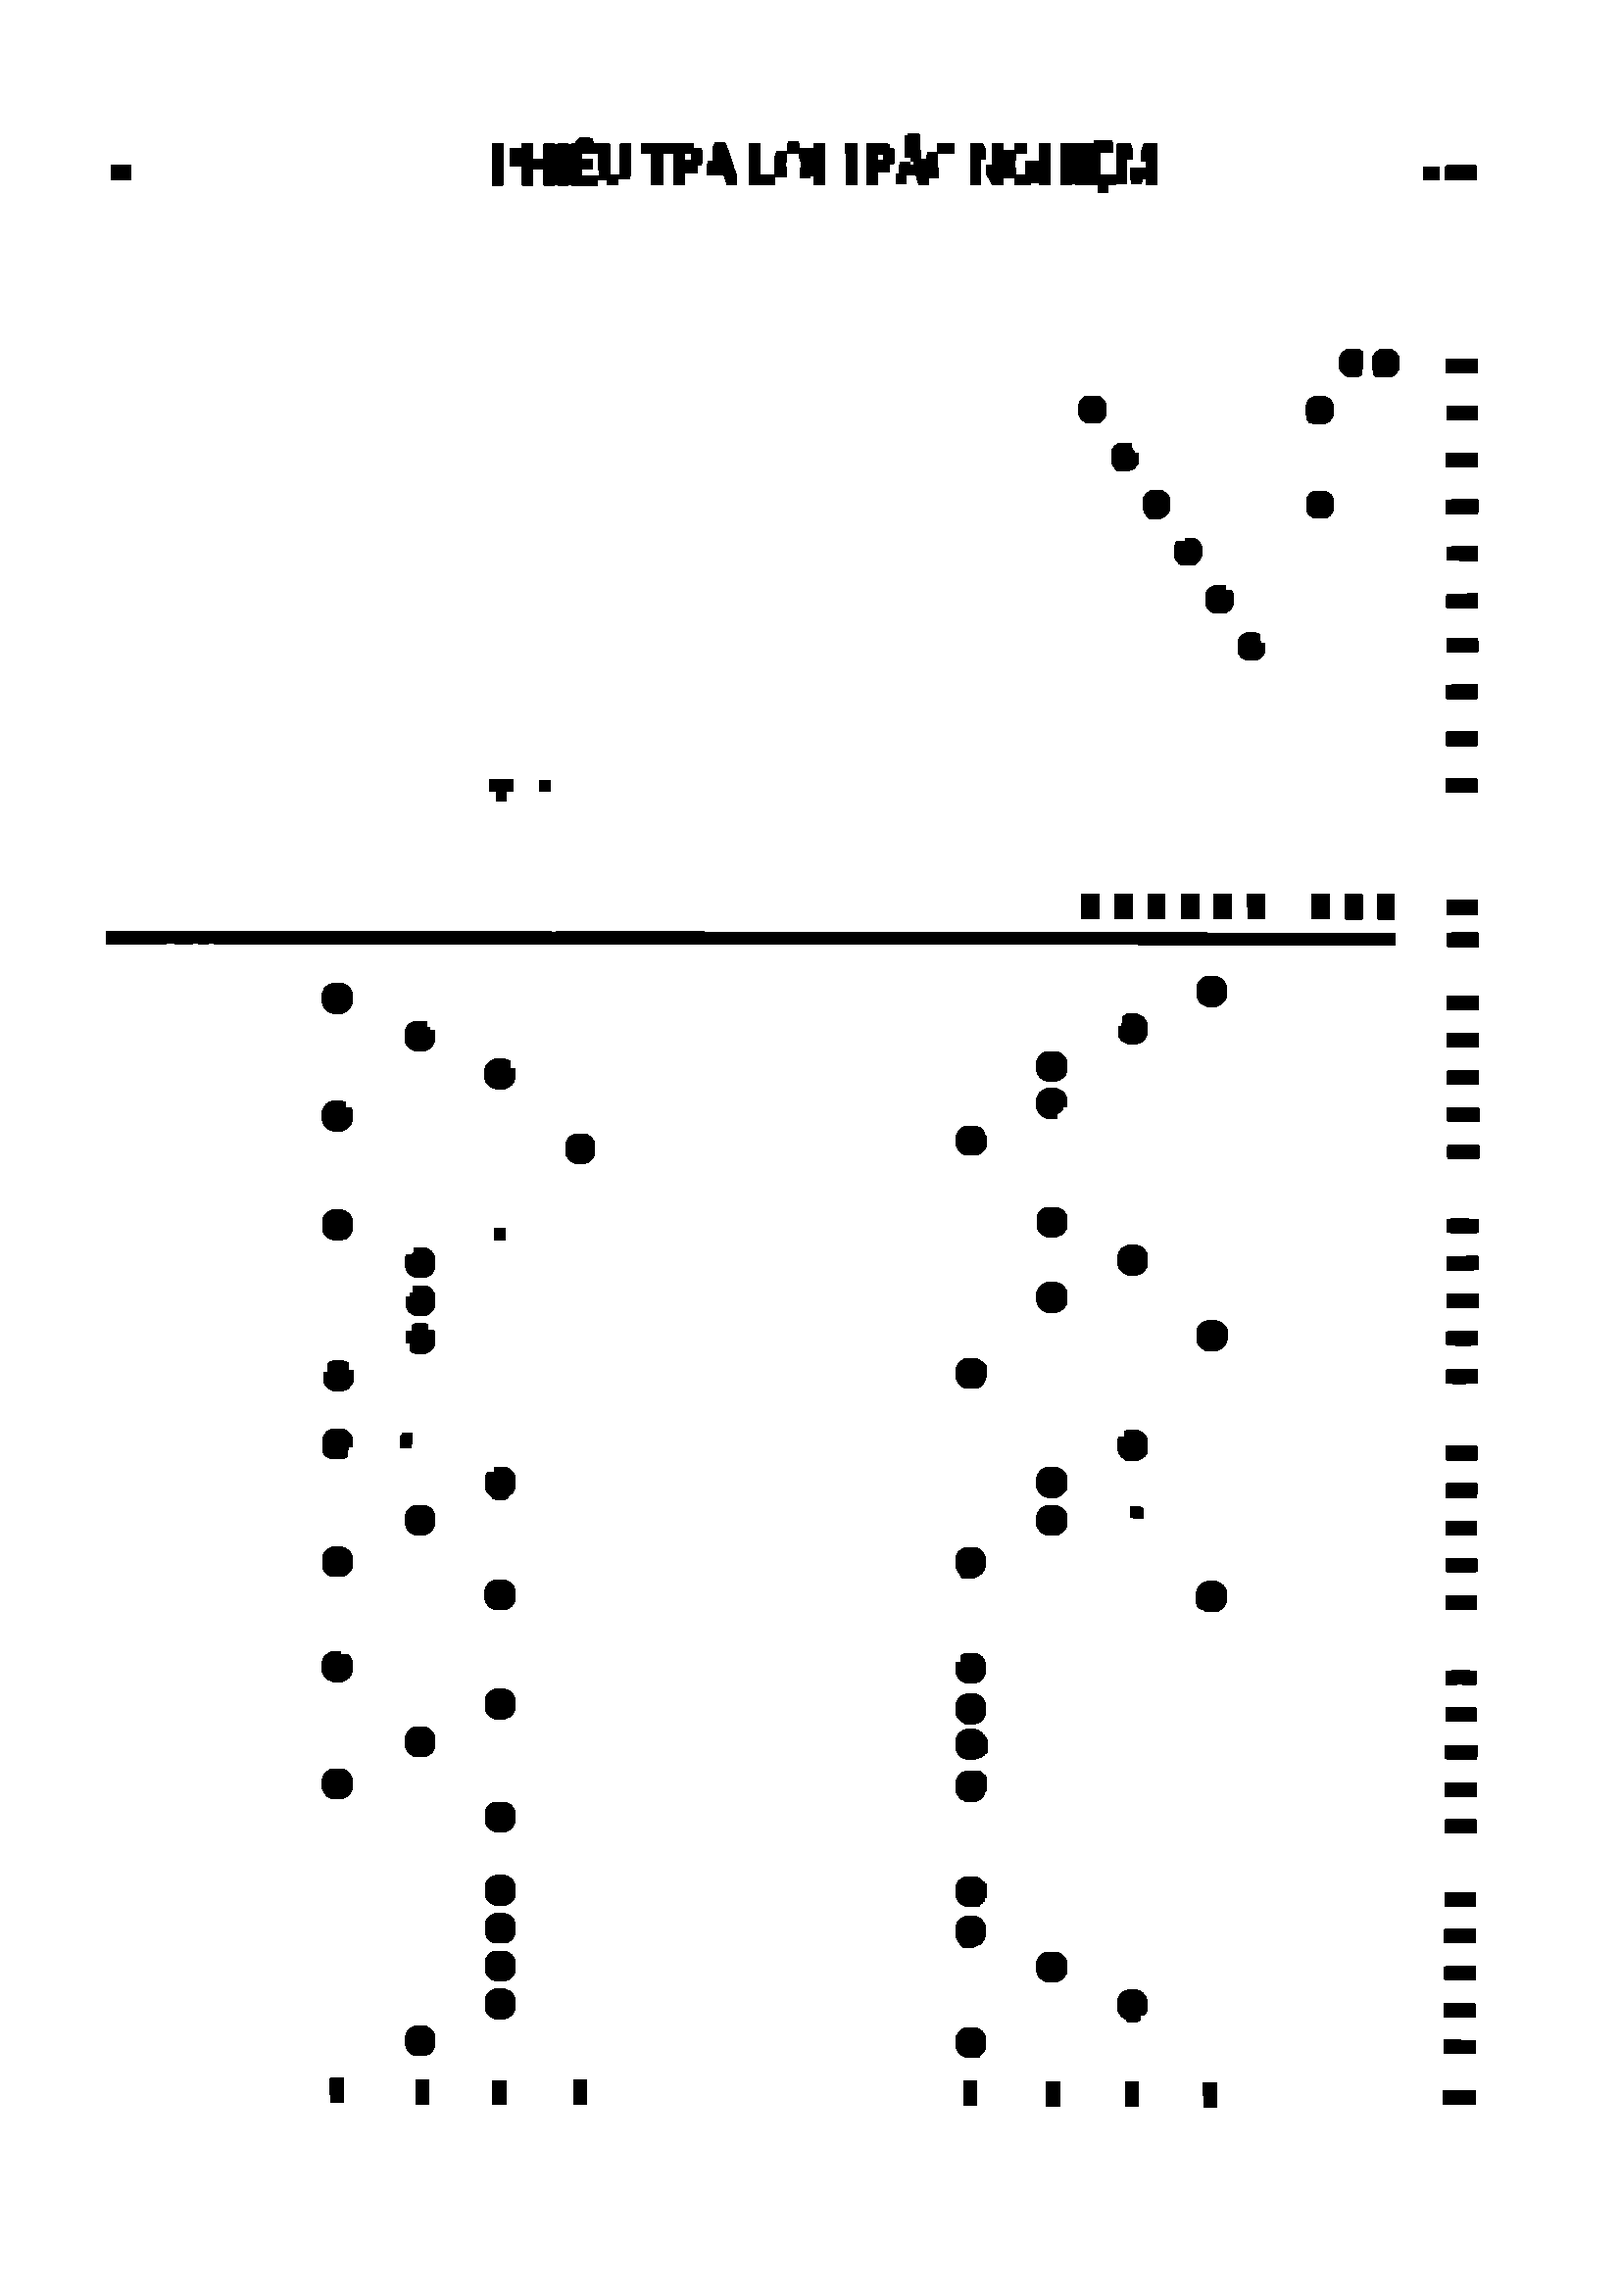
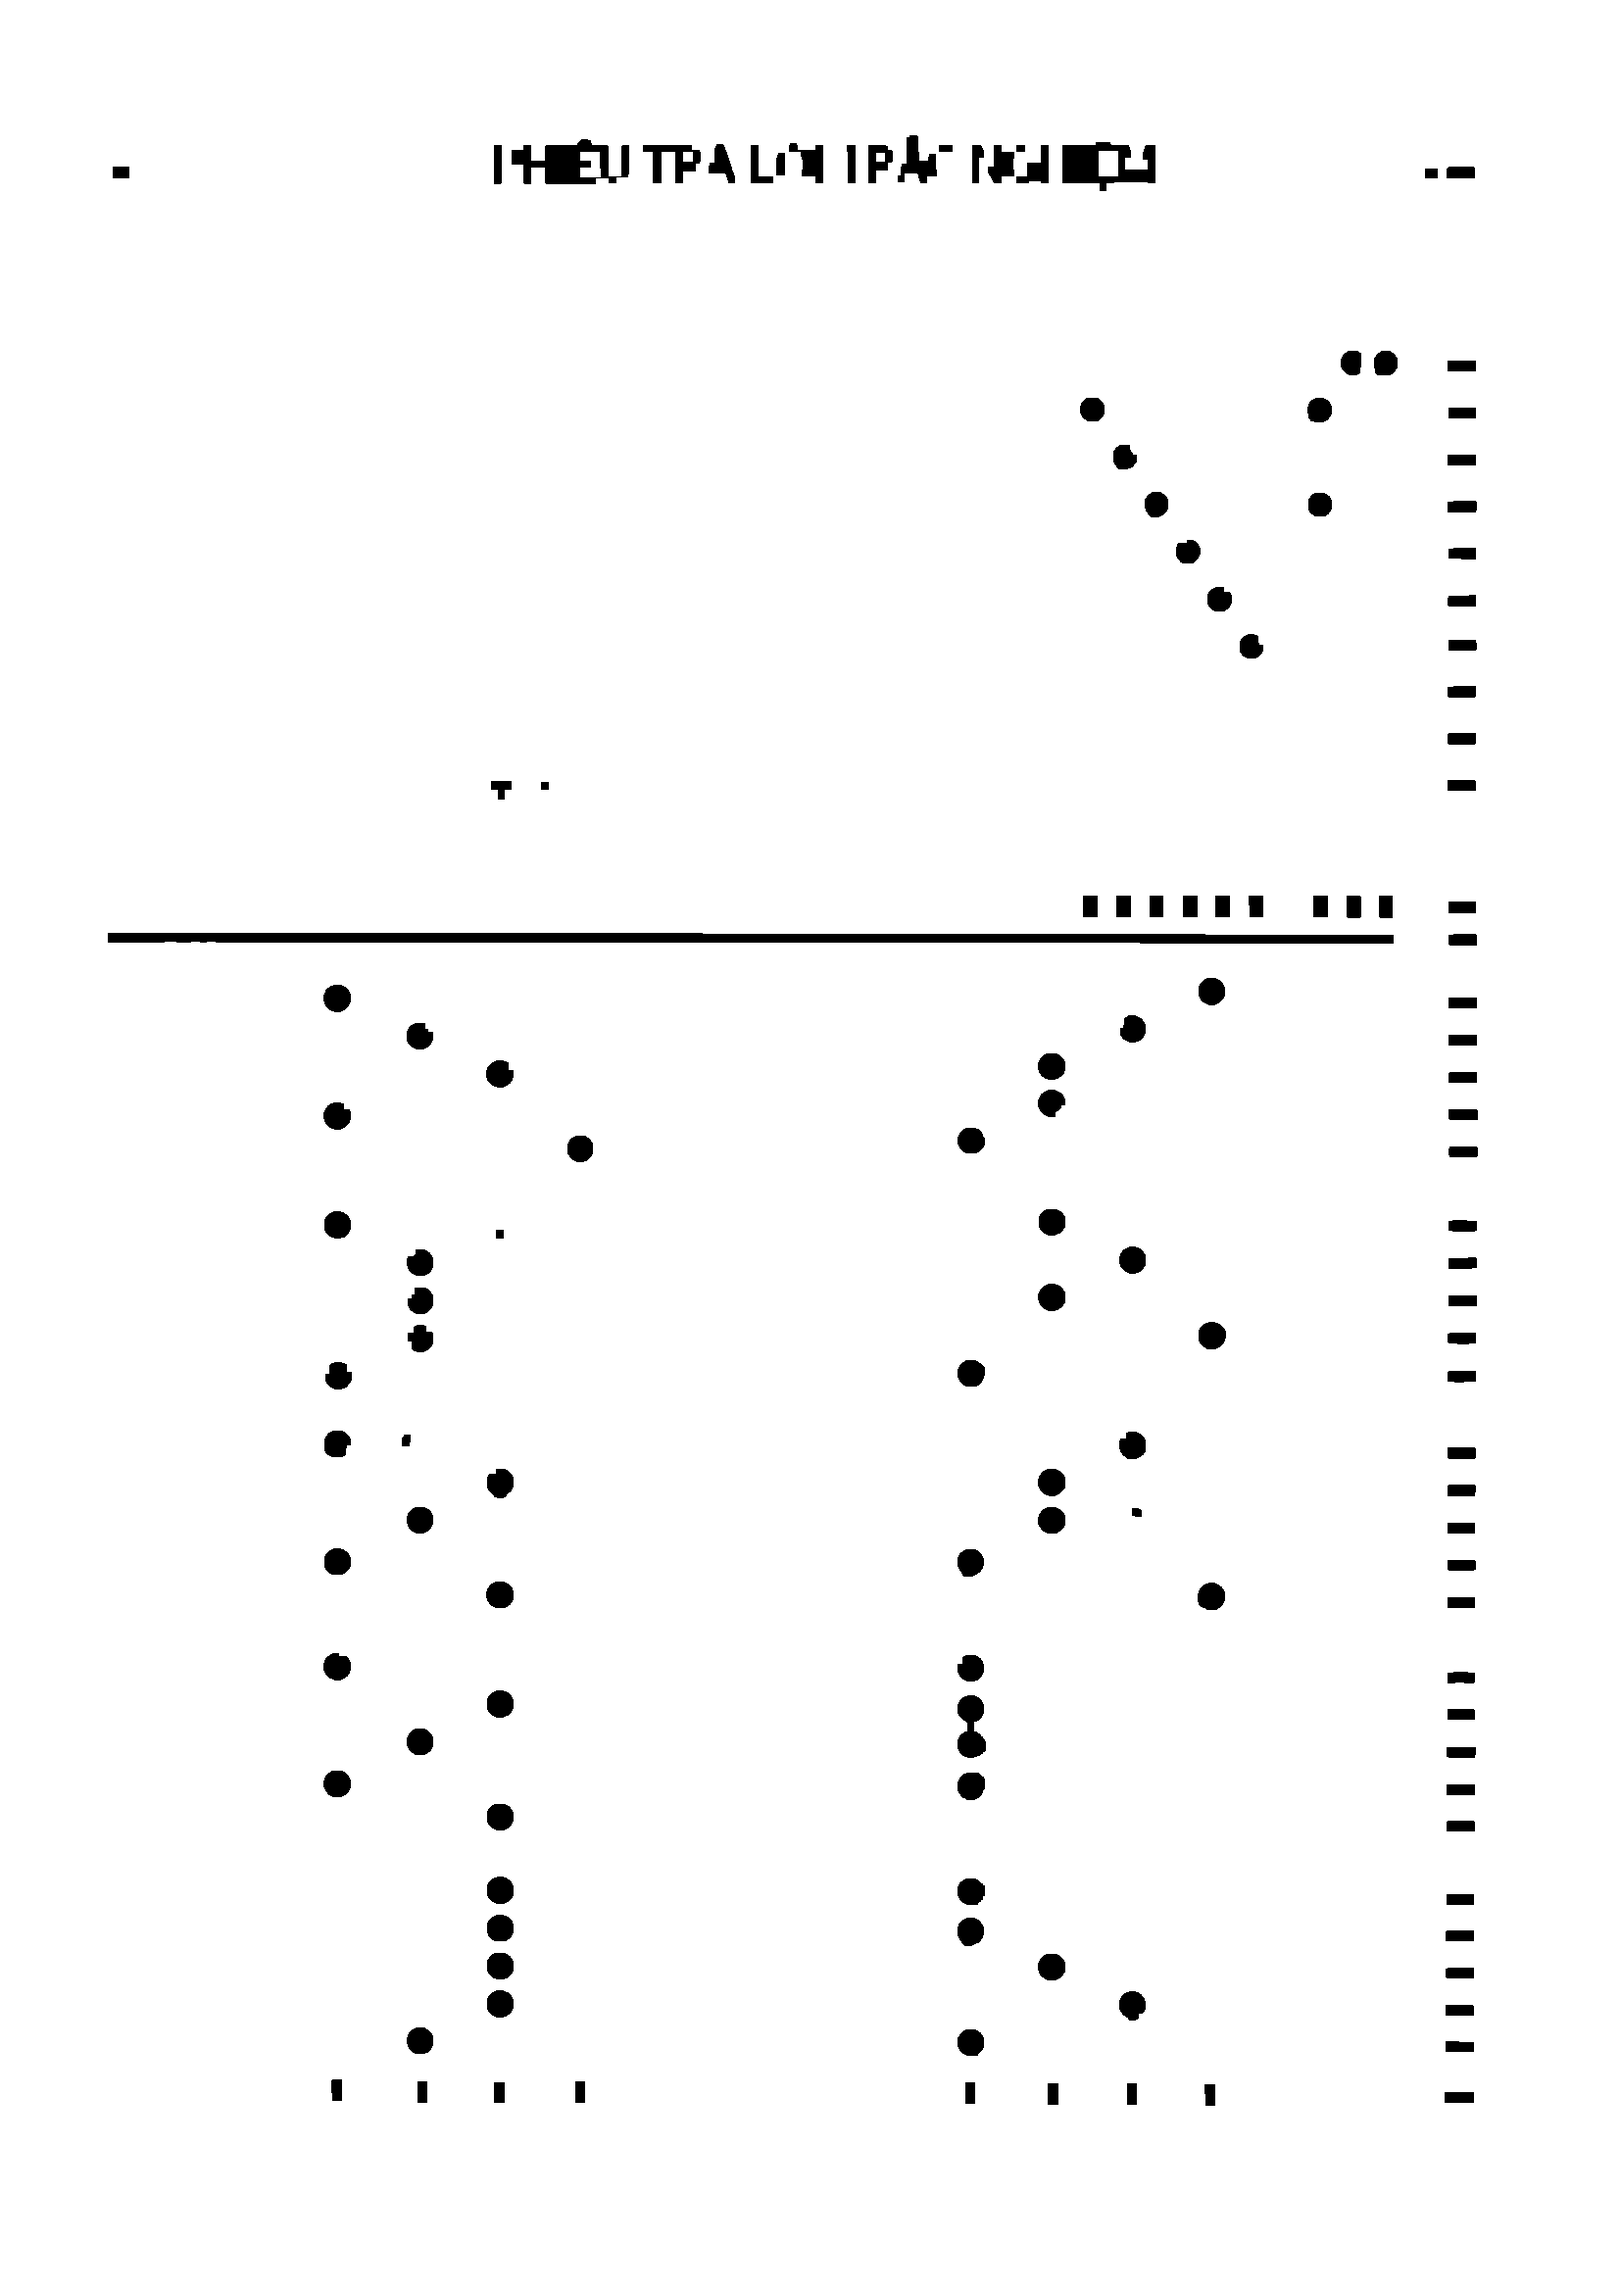
using np.mean to find choice area

diff --git a/Application.py b/Application.py
@@ -56,7 +56,7 @@ class Application(QtWidgets.QMainWindow):
         threshold_global_btn.clicked.connect(self.global_threshold)
         threshold_global_btn.move(30, 100)
 
-        threshold_local_btn = QtWidgets.QPushButton("Local Threshold", self)
+        threshold_local_btn = QtWidgets.QPushButton("Otsu Threshold", self)
         threshold_local_btn.clicked.connect(self.local_threshold)
         threshold_local_btn.move(30, 150)
 
@@ -223,11 +223,11 @@ class Application(QtWidgets.QMainWindow):
         invert_img = cv2.bitwise_not(binary_image)
         opening_kernel = cv2.getStructuringElement(cv2.MORPH_RECT, (7, 7))
         opening = cv2.morphologyEx(invert_img, cv2.MORPH_OPEN, opening_kernel)
-        closing_kernel = cv2.getStructuringElement(cv2.MORPH_RECT, (7, 7))
+        closing_kernel = cv2.getStructuringElement(cv2.MORPH_RECT, (9, 9))
         closing = cv2.morphologyEx(opening, cv2.MORPH_CLOSE, closing_kernel)
-        dilation_kernel = cv2.getStructuringElement(cv2.MORPH_RECT, (5, 5))
-        morphology_image = cv2.dilate(closing, dilation_kernel, iterations=1)
-        morphology_image = cv2.bitwise_not(morphology_image)
+        # dilation_kernel = cv2.getStructuringElement(cv2.MORPH_RECT, (5, 5))
+        # morphology_image = cv2.dilate(closing, dilation_kernel, iterations=1)
+        morphology_image = cv2.bitwise_not(closing)
         self.morphology_image = morphology_image
 
         directory, name = ntpath.split(self.global_threshold_path)

diff --git a/utilities.py b/utilities.py
@@ -1,9 +1,9 @@
 import cv2
 import numpy as np
 MIN_DISTANCE = 7
-ANSWER_REGION_SIZE = 13
+ANSWER_REGION_SIZE = 12
 WINDOW_SIZE = 15
-MIN_VAL = 90
+MIN_VAL = 235
 
 
 # find interest point in given area
@@ -84,7 +84,7 @@ def get_id(image, line_coor, id_coor):
         for j in range(0, 10):
             region = image[line_coor[j] - ANSWER_REGION_SIZE:line_coor[j] + ANSWER_REGION_SIZE,
                      id_coor[i] - ANSWER_REGION_SIZE:id_coor[i] + ANSWER_REGION_SIZE]
-            x, y, min_val = find_interested_point(region, WINDOW_SIZE)
+            min_val = int(np.mean(region))
             if min_val < MIN_VAL:
                 sbd[j][i] = 1
 
@@ -101,7 +101,8 @@ def get_answer(image, line_coor, ans_coor):
         for j in range(0, 25):
             region = image[line_coor[12 + j] - ANSWER_REGION_SIZE:line_coor[12 + j] + ANSWER_REGION_SIZE,
                      ans_coor[i] - ANSWER_REGION_SIZE:ans_coor[i] + ANSWER_REGION_SIZE]
-            x, y, min_val = find_interested_point(region, WINDOW_SIZE)
+            min_val = int(np.mean(region))
+            print(min_val)
             if min_val < MIN_VAL:
                 answer[j][i] = 1
 
